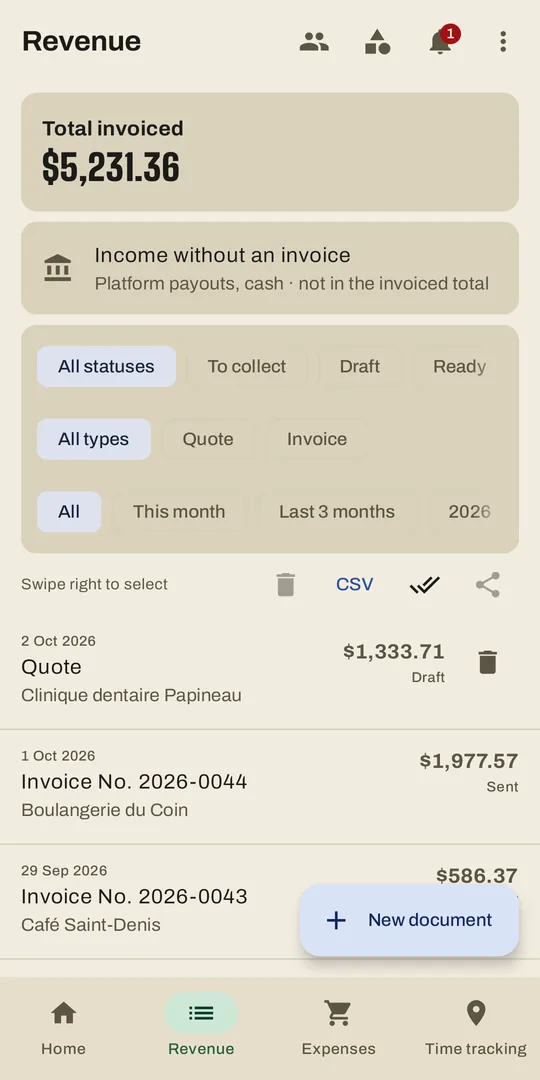
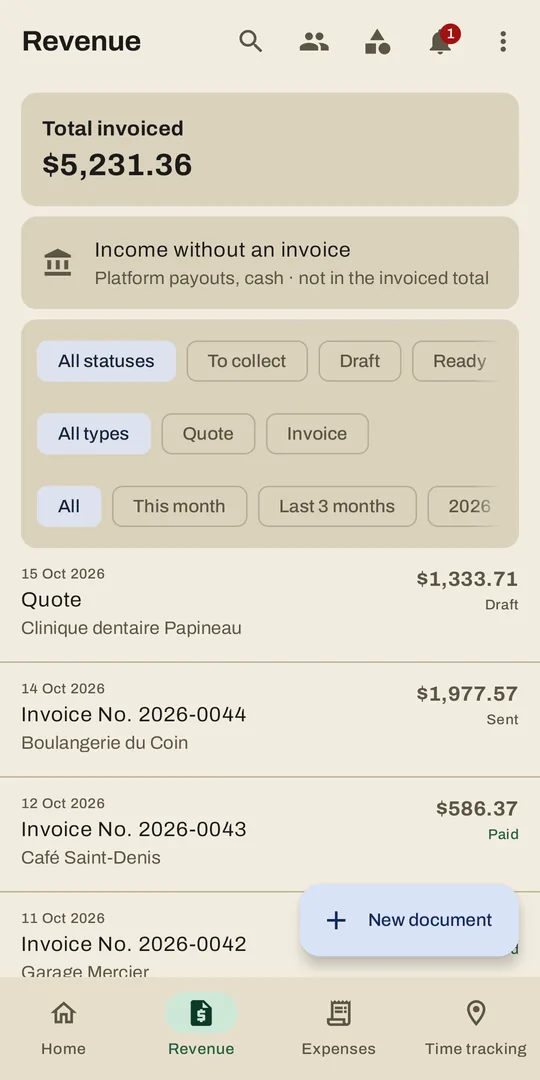
Screenshots and link previews retaken on TAGO 1.37
Same screens as before, from the Play listing series of 2026-10-14: the
current interface (search, filters, follow-up card) and a demo data set
whose places are Montréal only. The link previews (og-fr, og-en) keep
their text and show the new home and invoice screens. Alt text follows
what the home and Zones screenshots now show.

diff --git a/index.html b/index.html
@@ -60,7 +60,7 @@
           </div>
         </div>
         <div class="hero-shots">
-          <img class="phone" src="assets/img/01-fr.webp" width="540" height="1080" alt="Écran d'accueil de TAGO : revenus du mois, raccourcis et premiers pas.">
+          <img class="phone" src="assets/img/01-fr.webp" width="540" height="1080" alt="Écran d'accueil de TAGO : séance en cours, raccourcis et factures à suivre.">
           <img class="phone" src="assets/img/03-fr.webp" width="540" height="1080" alt="Une facture dans TAGO, avec TPS et TVQ calculées.">
         </div>
       </div>
@@ -101,7 +101,7 @@
         </div>
 
         <div class="feature">
-          <img class="phone" src="assets/img/06-fr.webp" width="540" height="1080" alt="L'écran Zones : un lieu de travail dessiné sur la carte." loading="lazy">
+          <img class="phone" src="assets/img/06-fr.webp" width="540" height="1080" alt="L'écran Zones : trois lieux de travail dessinés sur la carte." loading="lazy">
           <div>
             <h3>Heures par zone et kilométrage</h3>
             <ul>

diff --git a/en/index.html b/en/index.html
@@ -60,7 +60,7 @@
           </div>
         </div>
         <div class="hero-shots">
-          <img class="phone" src="../assets/img/01-en.webp" width="540" height="1080" alt="TAGO home screen: this month's revenue, shortcuts and getting started.">
+          <img class="phone" src="../assets/img/01-en.webp" width="540" height="1080" alt="TAGO home screen: session in progress, shortcuts and invoices to follow up.">
           <img class="phone" src="../assets/img/03-en.webp" width="540" height="1080" alt="An invoice in TAGO, with GST and QST calculated.">
         </div>
       </div>
@@ -101,7 +101,7 @@
         </div>
 
         <div class="feature">
-          <img class="phone" src="../assets/img/06-en.webp" width="540" height="1080" alt="The Zones screen: a work site drawn on the map." loading="lazy">
+          <img class="phone" src="../assets/img/06-en.webp" width="540" height="1080" alt="The Zones screen: three work sites drawn on the map." loading="lazy">
           <div>
             <h3>Hours by zone and mileage</h3>
             <ul>
